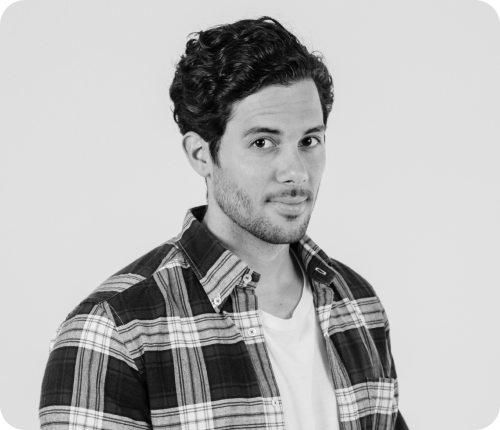
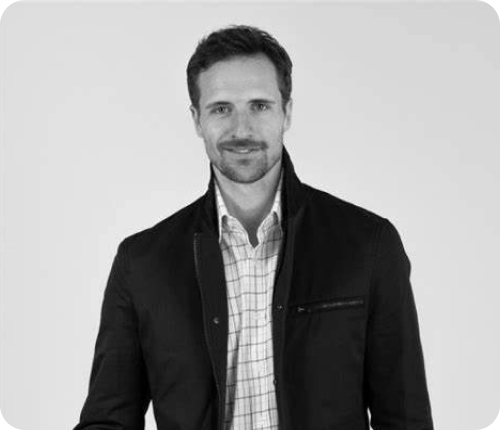
commit

diff --git a/src/Pages/Home/MyPortfolio.jsx b/src/Pages/Home/MyPortfolio.jsx
@@ -1,0 +1,66 @@
+import data from "../../data/index.json";
+
+export default function MyPortfolio() {
+    return (
+        <section className="portfolio--section" id="MyPortfolio">
+            <div className="portfolio--container-box">
+                <div className="portfolio--container">
+                    <p className="sub--title">Recent Projects</p>
+                    <h2 className="section--heading">My Portfolio</h2>
+                </div>
+                <div>
+                    <button className="btn btn-github">
+                        <svg
+                            xmlns="http://www.w3.org/2000/svg"
+                            width="32"
+                            height="32"
+                            viewBox="0 0 33 33"
+                            fill="none"
+                        >
+                            <path
+                                fill-rule="evenodd"
+                                clip-rule="evenodd"
+                                d="M16.3333 0.166748C7.50028 0.166748 0.333252 7.33378 0.333252 16.1667C0.333252 24.9997 7.50028 32.1667 16.3333 32.1667C25.1489 32.1667 32.3333 24.9997 32.3333 16.1667C32.3333 7.33378 25.1489 0.166748 16.3333 0.166748ZM26.9016 7.54202C28.8105 9.8674 29.9559 12.8348 29.9906 16.0452C29.5394 15.9585 25.0274 15.0387 20.4808 15.6114C20.3767 15.3858 20.2899 15.1428 20.1858 14.8999C19.9081 14.2405 19.5958 13.5637 19.2834 12.9216C24.3159 10.8739 26.6066 7.9238 26.9016 7.54202ZM16.3333 2.52684C19.804 2.52684 22.9797 3.82836 25.3919 5.96285C25.1489 6.30992 23.0838 9.06914 18.2248 10.8912C15.9862 6.77846 13.5047 3.41187 13.1229 2.89126C14.1467 2.64831 15.2227 2.52684 16.3333 2.52684ZM10.5199 3.811C10.8843 4.2969 13.3138 7.68085 15.5871 11.7068C9.20093 13.4075 3.56102 13.3728 2.95364 13.3728C3.83867 9.13855 6.70201 5.61577 10.5199 3.811ZM2.65863 16.1841C2.65863 16.0452 2.65863 15.9064 2.65863 15.7676C3.24865 15.7849 9.87772 15.8717 16.6977 13.824C17.0969 14.5875 17.4613 15.3684 17.8084 16.1493C17.6348 16.2014 17.4439 16.2535 17.2704 16.3055C10.2248 18.5788 6.47642 24.7914 6.16405 25.312C3.99485 22.8999 2.65863 19.6895 2.65863 16.1841ZM16.3333 29.8413C13.1749 29.8413 10.2595 28.7654 7.95147 26.9606C8.19442 26.4574 10.971 21.1125 18.676 18.4227C18.7107 18.4053 18.7281 18.4053 18.7628 18.388C20.689 23.3684 21.47 27.5506 21.6782 28.748C20.0296 29.4595 18.2248 29.8413 16.3333 29.8413ZM23.9515 27.4986C23.8127 26.6656 23.0838 22.6743 21.2964 17.7632C25.5828 17.0864 29.3311 18.1971 29.7997 18.3533C29.2097 22.1537 27.0231 25.4335 23.9515 27.4986Z"
+                                fill="currentColor"
+                            />
+                        </svg>
+                        Visit My GitHub
+                    </button>
+                </div>
+            </div>
+            <div className="portfolio--section--container">
+                {data?.portfolio?.map((item, index) => (
+                    <div key={index} className="portfolio--section--card">
+                        <div className="portfolio--section--img">
+                            <img src={item.src} alt="Placeholder" />
+                        </div>
+                        <div className="portfolio--section--card--content">
+                            <div>
+                                <h3 className="portfolio--section--title">{item.title}</h3>
+                                <p className="text-md">{item.description}</p>
+                            </div>
+                            <p className="text-sm portfolio--link">
+                                {item.link}
+                                <svg
+                                    xmlns="http://www.w3.org/2000/svg"
+                                    width="16"
+                                    height="16"
+                                    viewBox="0 0 20 19"
+                                    fill="none"
+                                >
+                                    <path
+                                        d="M4.66667 1.66675H18V15.0001M18 1.66675L2 17.6667L18 1.66675Z"
+                                        stroke="currentColor"
+                                        stroke-width="2.66667"
+                                        stroke-linecap="round"
+                                        stroke-linejoin="round"
+                                    />
+                                </svg>
+                            </p>
+                        </div>
+                    </div>
+                ))}
+            </div>
+        </section>
+    );
+}

diff --git a/src/App.css b/src/App.css
@@ -19,9 +19,9 @@ p {
 :root {
     --primary: #FF0000;
     --heading-color: #282938;
-    --bg-shade: #f5fcff;
+    --bg-shade: #fde5e5;
     --github: #e62872;
-    --darkblue: #1c1e53;
+    --darkblue: #531c1c;
     --black: #000000;
     --white: #ffffff;
 }
@@ -234,6 +234,7 @@ h3 {
 }
 
 .hero--section--img > img {
+    border-radius: 41px;
     width: 90%;
     height: 100%;
 }
@@ -261,3 +262,173 @@ h3 {
     gap: 42.6px;
     grid-template-columns: repeat(4, 1fr);
 }
+
+.skills--section--card {
+    display: flex;
+    padding: 32px;
+    flex-direction: column;
+    align-items: flex-start;
+    gap: 32px;
+    flex: 1 0 0;
+    border-radius: 10.6px;
+    background: var(--bg-shade);
+    min-height: 250px;
+}
+
+.skills--section--card:hover {
+    border-bottom: 4px solid var(--primary);
+}
+
+.skills--section--card:hover 
+.skills--section--description {
+    color: var(--darkblue);
+}
+
+.skills--section--img {
+    display: flex;
+    padding: 13.3px;
+    justify-content: center;
+    align-items: center;
+    gap: 13.3px;
+    border-radius: 10.6px;
+    background: #ffffff;
+    box-shadow: 0 0 16px 0 rgba(0, 0, 0, 0.1);
+}
+
+.skills--section--card--content {
+    display: flex;
+    flex-direction: column;
+    align-items: flex-start;
+    gap: 32px;
+    align-self: stretch;
+}
+
+.skills--section--title {
+    color: var(--heading-color);
+    font-size: 32px;
+    font-weight: 700;
+    line-height: 45px;
+}
+
+.skills--section--description {
+    color: var(--black);
+    font-size: 21.3px;
+    font-style: normal;
+    font-weight: 400;
+    line-height: 32px;
+}
+
+.about--section {
+    display: grid;
+    padding: 133.3px 85.3px;
+    align-items: center;
+    gap: 114.6px;
+    grid-template-columns: repeat(2, 1fr);
+}
+
+.about--section--img > img {
+    border-radius: 41px;
+    width: 90%;
+    height: 100%;
+}
+
+.portfolio--section {
+  display: flex;
+  padding: 112px 85px;
+  flex-direction: column;
+  align-items: flex-start;
+  gap: 80px;
+}
+
+.portfolio--container-box {
+  display: flex;
+  justify-content: space-between;
+  align-items: center;
+  width: 100%;
+}
+
+.portfolio--container {
+  display: flex;
+  flex-direction: column;
+  align-items: flex-start;
+  gap: 21.3px;
+}
+
+.portfolio--section--container {
+  display: flex;
+  align-items: center;
+  justify-content: center;
+  gap: 42.6px;
+  width: 100%;
+}
+
+.portfolio--section--img {
+  border-radius: 8px;
+  width: 100%;
+}
+
+.portfolio--section--img > img {
+  width: 100%;
+}
+
+.portfolio--section--card {
+  display: flex;
+  flex-direction: column;
+  align-items: flex-start;
+  gap: 32px;
+  flex: 1 0 0;
+  background: #fff;
+  box-shadow: 0 0 32px 0 rgba(0, 0, 0, 0.15);
+  cursor: pointer;
+  border-top-left-radius: 12px;
+  border-top-right-radius: 12px;
+}
+
+.portfolio--section--card--content {
+  display: flex;
+  padding: 32px;
+  flex-direction: column;
+  align-items: flex-start;
+  gap: 32px;
+  align-self: stretch;
+}
+
+.portfolio--section--title {
+  color: var(--heading-color);
+}
+
+.portfolio--link {
+  text-decoration: none;
+  display: flex;
+  gap: 16px;
+  border-bottom: 1.33px solid var(--primary);
+  padding-bottom: 10.6px;
+  font-weight: 600;
+}
+
+.portfolio--section--card:hover path {
+  stroke: #6b0000;
+}
+
+.testimonial--section {
+    display: flex;
+    padding: 112px 84.3px;
+    flex-direction: column;
+    align-items: flex-start;
+    gap: 80px;
+    background-color: var(--bg-shade);
+}
+
+.sections--heading {
+
+}
+
+
+
+  
+  
+
+
+
+
+

diff --git a/src/Pages/Home/Testimonials.jsx b/src/Pages/Home/Testimonials.jsx
@@ -1,0 +1,42 @@
+import data from "../../data/index.json";
+
+export default function Testimonials() {
+    return (
+        <section className="testimonial--section" id="testimonial">
+            <div className="portfolio--container--box">
+                <div className="porfolio--container">
+                    <p className="sub--title">Clients Facebook</p>
+                    <h2 className="sections--heading">Customer Feedback</h2>
+                </div>
+            </div>
+            <div className="portfolio--section--container">
+                {data?.testimonial?.map((item, index) => (
+                    <div key={index} className="testimonial--card">
+                        <div className="testimonial--section--card--review">
+                            {Array.from({ length: 5 }, (reviews, index) => (
+                                <svg
+                                    xmlns="http://www.w3.org/2000/svg"
+                                    width="27"
+                                    height="26"
+                                    viewBox="0 0 27 26"
+                                    fill="none"
+                                >
+                                    <path
+                                        d="M12.0945 0.953177C12.5528 -0.135435 14.1138 -0.135434 14.5722 0.95318L17.2772 7.37836C17.4705 7.8373 17.9074 8.15087 18.4089 8.19059L25.4302 8.74669C26.6199 8.84091 27.1022 10.3076 26.1959 11.0746L20.8464 15.6016C20.4643 15.925 20.2973 16.4324 20.4141 16.9158L22.0484 23.6847C22.3253 24.8315 21.0625 25.7381 20.044 25.1235L14.0327 21.4961C13.6033 21.237 13.0633 21.237 12.634 21.4961L6.62265 25.1235C5.60415 25.7381 4.34127 24.8315 4.61818 23.6847L6.25256 16.9158C6.3693 16.4324 6.20243 15.925 5.82034 15.6016L0.47075 11.0746C-0.435624 10.3076 0.0467572 8.84091 1.23639 8.74669L8.25781 8.19059C8.75933 8.15087 9.19621 7.8373 9.38942 7.37836L12.0945 0.953177Z"
+                                        fill="#006B6A"
+                                    />
+                                </svg>
+                            ))}
+                        </div>
+                        <p className="text-md">{item.description}</p>
+                        <div className="testimonila--section--card--author--details">
+                            <img src={item.src} alt="Avatar" />
+                        </div>
+                        <p className="text-md testimonial--author--name">{item.author_name}</p>
+                        <p className="text-md testimonial--author--name">{item.author_designation}</p>
+                    </div>
+                ))}
+            </div>
+        </section>
+    )
+}

diff --git a/src/Pages/Home/AboutMe.jsx b/src/Pages/Home/AboutMe.jsx
@@ -1,0 +1,17 @@
+export default function AboutMe() {
+    return (
+        <section id="AboutMe" className="about--section">
+            <div className="about--section--img">
+                <img src="./img/about-me.png" alt="About Me" />
+            </div>
+            <div className="hero--section--content--box about--section--box" >
+                <div className="hero--section--content">
+                    <p className="section--title">About</p>
+                    <h1 className="skills--section--heading">About Me</h1>
+                    <p className="hero--section-description"> Lorem ipsum dolor sit amet consectetur, adipisicing elit. Reprehenderit culpa reiciendis odio cum, consectetur veritatis officia possimus optio laboriosam illo similique error, dolore assumenda sunt deserunt natus qui corporis debitis!</p>
+                    <p className="hero--section-description"> Lorem ipsum dolor sit amet consectetur, adipisicing elit. Reprehenderit culpa reiciendis odio cum, consectetur veritatis officia possimus optio laboriosam illo similique error?</p>
+                </div>
+            </div>
+        </section>
+    )
+}

diff --git a/src/Pages/Home/Homescreen/index.jsx b/src/Pages/Home/Homescreen/index.jsx
@@ -1,11 +1,17 @@
+import AboutMe from "../AboutMe";
 import HeroSection from "../HeroSection";
+import MyPortfolio from "../MyPortfolio";
 import MySkills from "../MySkills";
+import Testimonials from "../Testimonials";
 
 export default function Home () {
     return (
         <>
             <HeroSection />
             <MySkills />
+            <AboutMe />
+            <MyPortfolio />
+            <Testimonials />
         </>
     )
 }
